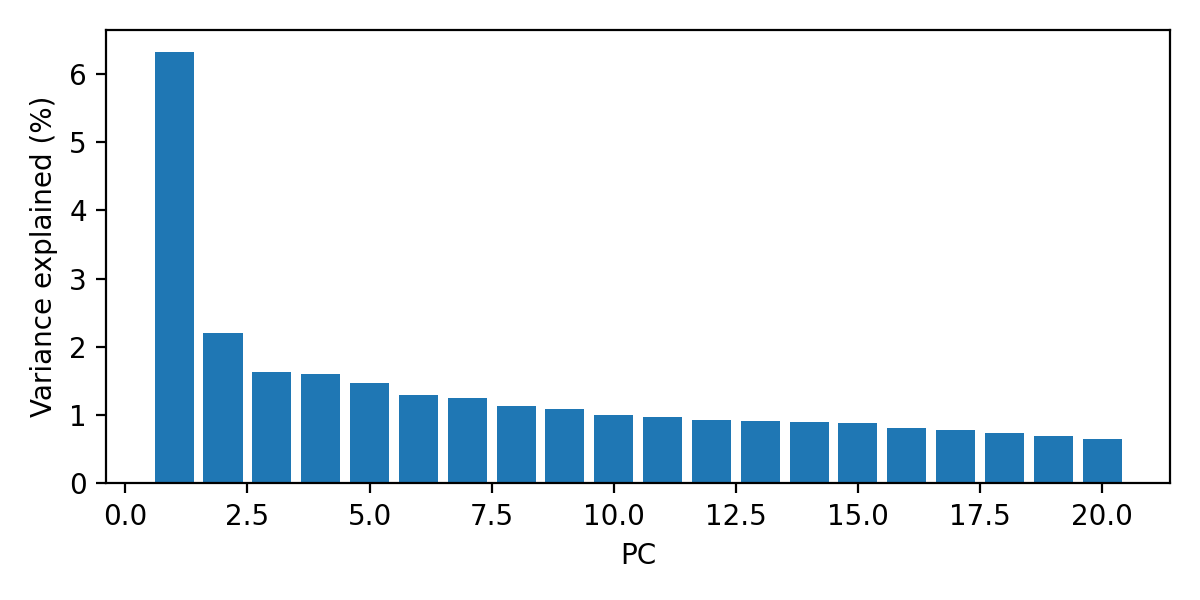
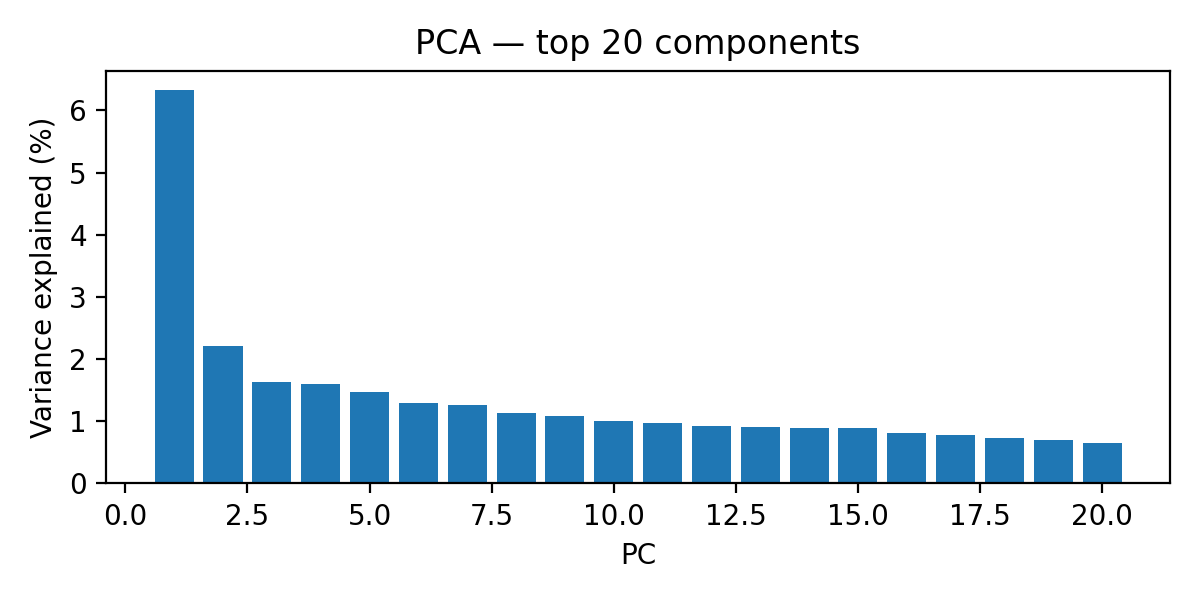
Analysis: 100-PC PCA, UMAP, differential TMRCA windows
Wilcoxon rank-sum test on 20,835 genomic windows across 26 populations.
Identifies population-specific TMRCA windows — analogous to differential
gene expression in single-cell. Manhattan plot, dotplot, heatmap.

diff --git a/analysis/1kg_chr21/02_analysis.py b/analysis/1kg_chr21/02_analysis.py
@@ -1,5 +1,8 @@
 #!/usr/bin/env python3
-"""Quick analysis: subsample 25k pairs, PCA 100 comps, UMAP."""
+"""
+1000 Genomes chr21: TMRCA analysis.
+25k subsample → PCA → UMAP → differential TMRCA windows between populations.
+"""
 import numpy as np
 import anndata as ad
 import scanpy as sc
@@ -11,75 +14,116 @@ import os, time
 OUT = os.path.join(os.path.dirname(__file__), 'results')
 H5AD = os.path.join(OUT, 'chr21_tmrca.h5ad')
 
+# ── Load + subsample ─────────────────────────────────────────
 print("Loading...", flush=True)
 adata = ad.read_h5ad(H5AD)
 print(f"  Full: {adata.shape}", flush=True)
 
-# Subsample 25k, stratified by population
 print("Subsampling 25k...", flush=True)
 rng = np.random.default_rng(42)
 pops = adata.obs['population'].unique()
-n_per_pop = max(25000 // len(pops), 100)
+n_per = max(25000 // len(pops), 100)
 idx = []
 for pop in pops:
     mask = np.where(adata.obs['population'] == pop)[0]
-    n = min(n_per_pop, len(mask))
-    idx.extend(rng.choice(mask, n, replace=False).tolist())
-idx = sorted(idx)
-adata = adata[idx].copy()
-print(f"  Subsampled: {adata.shape}", flush=True)
+    idx.extend(rng.choice(mask, min(n_per, len(mask)), replace=False).tolist())
+adata = adata[sorted(idx)].copy()
+print(f"  {adata.shape}", flush=True)
 
-# Log transform
+# ── Preprocess ────────────────────────────────────────────────
 adata.X = np.log1p(adata.X)
 
-# PCA
+# ── PCA (50 comps for UMAP) ──────────────────────────────────
 print("PCA...", flush=True)
 t0 = time.perf_counter()
 sc.pp.pca(adata, n_comps=100)
 print(f"  {time.perf_counter()-t0:.1f}s", flush=True)
 
-# Neighbors + UMAP
+# ── UMAP ──────────────────────────────────────────────────────
 print("UMAP...", flush=True)
 t0 = time.perf_counter()
 sc.pp.neighbors(adata, n_pcs=50)
 sc.tl.umap(adata)
 print(f"  {time.perf_counter()-t0:.1f}s", flush=True)
 
-# Save
+# ── Differential TMRCA windows (on raw log-TMRCA, not PCA) ───
+print("Differential TMRCA windows...", flush=True)
+t0 = time.perf_counter()
+sc.tl.rank_genes_groups(adata, groupby='population', method='wilcoxon')
+print(f"  {time.perf_counter()-t0:.1f}s", flush=True)
+
+# ── Save ──────────────────────────────────────────────────────
 adata.write(os.path.join(OUT, 'chr21_tmrca_25k.h5ad'))
 
-# Plot
+# ── Plots ─────────────────────────────────────────────────────
+print("Plotting...", flush=True)
 sp_colors = {'AFR':'#e41a1c','EUR':'#377eb8','EAS':'#4daf4a','SAS':'#984ea3','AMR':'#ff7f00'}
-fig, axes = plt.subplots(1, 2, figsize=(16, 7))
 
+# 1. UMAP by superpopulation + population
+fig, axes = plt.subplots(1, 2, figsize=(16, 7))
 umap = adata.obsm['X_umap']
+
 ax = axes[0]
 for sp in ['AFR','EUR','EAS','SAS','AMR']:
     m = adata.obs['superpopulation'] == sp
     ax.scatter(umap[m,0], umap[m,1], s=1, alpha=0.5, c=sp_colors[sp], label=sp, rasterized=True)
 ax.set_xlabel('UMAP 1'); ax.set_ylabel('UMAP 2')
-ax.set_title('Superpopulation'); ax.legend(markerscale=8, fontsize=9)
+ax.set_title('Superpopulation'); ax.legend(markerscale=8)
 
 ax = axes[1]
-pops_sorted = sorted(adata.obs['population'].unique())
-cm = plt.cm.tab20(np.linspace(0,1,len(pops_sorted)))
-for i,p in enumerate(pops_sorted):
+pops_s = sorted(adata.obs['population'].unique())
+cm = plt.cm.tab20(np.linspace(0,1,len(pops_s)))
+for i,p in enumerate(pops_s):
     m = adata.obs['population'] == p
     ax.scatter(umap[m,0], umap[m,1], s=1, alpha=0.5, c=[cm[i]], label=p, rasterized=True)
 ax.set_xlabel('UMAP 1'); ax.set_ylabel('UMAP 2')
 ax.set_title('Population'); ax.legend(markerscale=8, fontsize=5, ncol=2)
 
-fig.suptitle('1000 Genomes chr21 — TMRCA UMAP (25k pairs subsample)', fontsize=12)
+fig.suptitle('1000 Genomes chr21 — Pairwise TMRCA UMAP (25k pairs)', fontsize=12)
 fig.tight_layout()
 fig.savefig(os.path.join(OUT, 'umap_tmrca.png'), dpi=200, bbox_inches='tight')
 fig.savefig(os.path.join(OUT, 'umap_tmrca.pdf'), dpi=200, bbox_inches='tight')
 plt.close(fig)
 
+# 2. Top differential windows — dotplot style
+sc.pl.rank_genes_groups_dotplot(adata, n_genes=5, show=False, save='_diff.png')
+
+# 3. Top differential windows — genomic Manhattan-style plot
+fig, ax = plt.subplots(figsize=(14, 4))
+result = adata.uns['rank_genes_groups']
+# For each pop, plot the -log10(pval) of top windows along the chromosome
+for pi, pop in enumerate(['YRI', 'CEU', 'CHB', 'PEL', 'GIH']):
+    pop_idx = list(result['names'].dtype.names).index(pop)
+    names = result['names'][pop][:20]
+    pvals = result['pvals_adj'][pop][:20]
+    # Extract genomic position from window name (chr21:start-end)
+    positions = []
+    for n in names:
+        start = int(str(n).split(':')[1].split('-')[0])
+        positions.append(start / 1e6)
+    logp = -np.log10(np.maximum(pvals, 1e-300))
+    ax.scatter(positions, logp, s=20, alpha=0.7, label=pop)
+
+ax.set_xlabel('Position on chr21 (Mb)')
+ax.set_ylabel('-log10(adjusted p-value)')
+ax.set_title('Top 20 differential TMRCA windows per population')
+ax.legend(fontsize=8)
+ax.grid(True, alpha=0.1)
+fig.tight_layout()
+fig.savefig(os.path.join(OUT, 'diff_windows_manhattan.png'), dpi=200, bbox_inches='tight')
+plt.close(fig)
+
+# 4. PCA variance
 fig, ax = plt.subplots(figsize=(6, 3))
-ax.bar(range(1,21), adata.uns['pca']['variance_ratio'][:20]*100)
+ax.bar(range(1, 21), adata.uns['pca']['variance_ratio'][:20] * 100)
 ax.set_xlabel('PC'); ax.set_ylabel('Variance explained (%)')
+ax.set_title('PCA — top 20 components')
 fig.tight_layout()
 fig.savefig(os.path.join(OUT, 'pca_variance.png'), dpi=200)
 plt.close(fig)
+
+# 5. Heatmap of top windows across populations
+sc.pl.rank_genes_groups_heatmap(adata, n_genes=3, show=False,
+                                       groupby='population', show_gene_labels=True, save='_diff.png')
 
 print("Done!", flush=True)